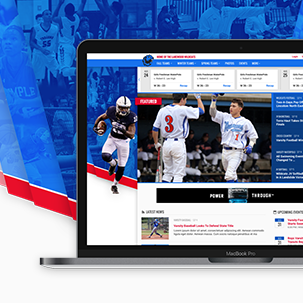
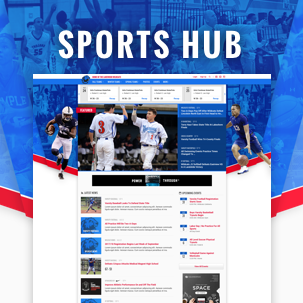
Added section breaks, 'view more' to posts, and added some updated images

diff --git a/_sass/_layout.scss b/_sass/_layout.scss
@@ -196,29 +196,47 @@
  * Posts
  */
 
- .post-header { @include strong-text; }
+ .post-header {
+   @include strong-text;
+   margin-top: $spacing-unit;
+   margin-bottom: $spacing-unit;
+ }
 
  .post-list {
    @include flexcenter;
 
-   .post-block {
+   .post-block, .post-more {
      @include spacing-sm;
      @include card;
      @include transition-all;
      display: inline;
      position: relative;
-     max-width: 30%;
+     z-index: 5;
      overflow: hidden;
 
      .post-image { border-bottom: 1px solid #00E5FF; }
+     .post-title { @include strong-text; }
+   }
+
+   .post-block {
+     max-width: 30%;
 
      .post-details {
        padding: .5em 0 .5em 1em;
 
        .post-title {
-         @include strong-text;
          margin-bottom: -5px;
        }
+     }
+   }
+
+   .post-more {
+     max-width: 17%;
+
+     .post-details {
+       padding: .15em 0 .15em .5em;
+       white-space: nowrap;
+       text-overflow: ellipsis;
      }
    }
  }
@@ -239,10 +257,6 @@
 
 .post-link {
     display: block;
-}
-
-.post-header {
-    margin-bottom: $spacing-unit;
 }
 
 .post-title {
@@ -294,12 +308,25 @@
 
 .post-content-section-title {
   position: relative;
-  margin-top: $spacing-unit * 2;
-  margin-bottom: $spacing-unit * 2;
+  margin-top: $spacing-unit * 4;
+  margin-bottom: $spacing-unit * 4;
   height: 355px;
   width: 100%;
   color: #ffffff;
   background-image: url("/../images/waves-mid-flat.svg");
   background-repeat: repeat-x;
 
+  .section-title {
+    font-size: $text-xxl;
+    font-weight: lighter;
+    text-align: center;
+    text-transform: uppercase;
+  }
+}
+
+.vnn-brand {
+  margin-bottom: -180px;
+  z-index: -1;
+  background-image: url("/../images/vnn-bg.png");
+  height: 400px;
 }

diff --git a/_layouts/home.html b/_layouts/home.html
@@ -165,27 +165,6 @@
           </div>
         </div>
       </section>
-
-      <!--<section class="page-section">
-        <h2 class="page-heading"><span>About</span></h2>
-          <div class="home-about">
-            <div class="bio">
-              <h4>About Me</h4>
-              <p>
-                I am a designer from the midwest who is passionate about the potential design thinking
-                has for solving real world problems. I've had the privilege  to experiment with a broad
-                range of tech throughout my career, education, and personal life. Outside of work I am
-                a world traveler, snowboarder, avid doodler, and boardgame enthusist.
-              </p>
-              <a href="#">View Resume</a>
-              <a href="/about/">Read More</a>
-            </div>
-            <div class="profile">
-             <img src="../images/tony.png">
-            </div>
-          </div>
-      </section>-->
-
     </div><!-- End Wrapper -->
 
     <footer>
@@ -198,7 +177,7 @@
       <div class="wrapper">
         <div class="logo-sm">
           <div class="logo-line"></div>
-          <a href="http://tonyellison.io"><img src="/../images/te-Logo-Transparent.png"><a>
+          <a href="/index/"><img src="/../images/te-Logo-Transparent.png"><a>
         </div>
 
         <ul class="nav-social">

diff --git a/_layouts/post.html b/_layouts/post.html
@@ -17,7 +17,7 @@ layout: default
       <img src="{{ page.preview }}">
     </section>
   </div>
-  
+
   <div class="post-content" itemprop="articleBody">
     {{ content }}
   </div>
@@ -25,4 +25,25 @@ layout: default
     {% if site.disqus.shortname %}
       {% include disqus_comments.html %}
     {% endif %}
+
 </article>
+
+<div class="wrapper">
+  <section class="page-section">
+    <h2 class="page-heading"><span>View More</span></h2>
+    <ul class="post-list">
+      {% for post in site.posts limit:5 %}
+        <li class="post-more">
+          <a class="post-link" href="{{ post.url | relative_url }}">
+            <div class="post-image">
+              <img src="{{ post.image }}">
+            </div>
+            <div class="post-details">
+              <span class="post-title">{{ post.title | escape }}</span>
+            </div>
+          </a>
+        </li>
+      {% endfor %}
+    </ul>
+    </section>
+</div>

diff --git a/_sass/_styles.scss b/_sass/_styles.scss
@@ -2,11 +2,8 @@
  * Site styles
  */
 
-
-
 nav {
-  @include gradient(#1f1f35, #2E2E50);
-
+  @include gradient(#2E2E50, #1f1f35);
   font-weight: 300;
   padding: $spacing-unit;
 
@@ -71,7 +68,7 @@ nav {
 .default-waves {
   position: relative;
   margin-bottom: -450px;
-  background: #2E2E50;
+  background: #1f1f35;
   z-index: 1;
 
   .wave-cover {
@@ -108,6 +105,7 @@ footer {
 
   .footer-waves {
     .wave-cover {
+      margin-top: -75px;
       height: 160px;
     }
 

diff --git a/_layouts/default.html b/_layouts/default.html
@@ -45,7 +45,7 @@
       <div class="wrapper">
         <div class="logo-sm">
           <div class="logo-line"></div>
-          <a href="http://tonyellison.io"><img src="/../images/te-Logo-Transparent.png"></a>
+          <a href="/index/"><img src="/../images/te-Logo-Transparent.png"></a>
         </div>
 
         <ul class="nav-social">
